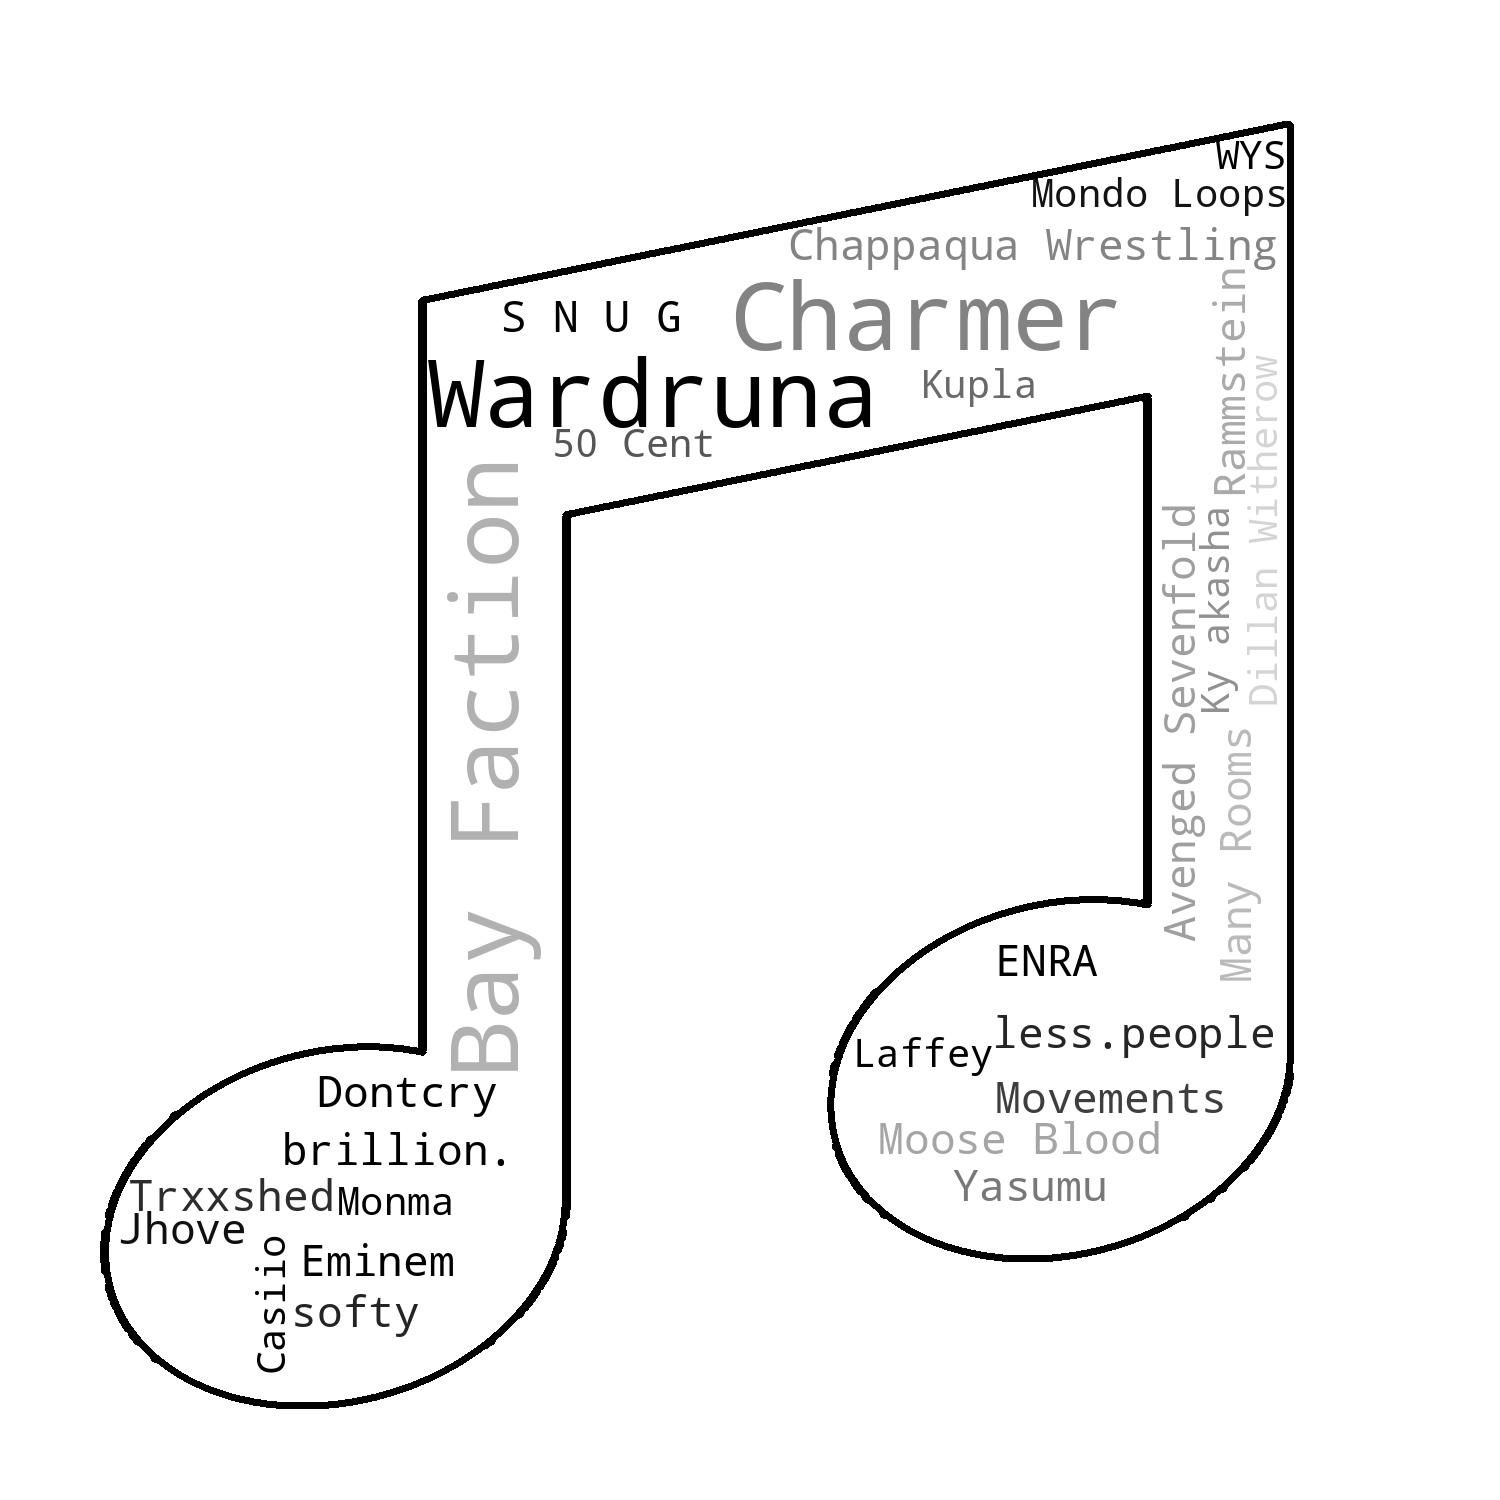
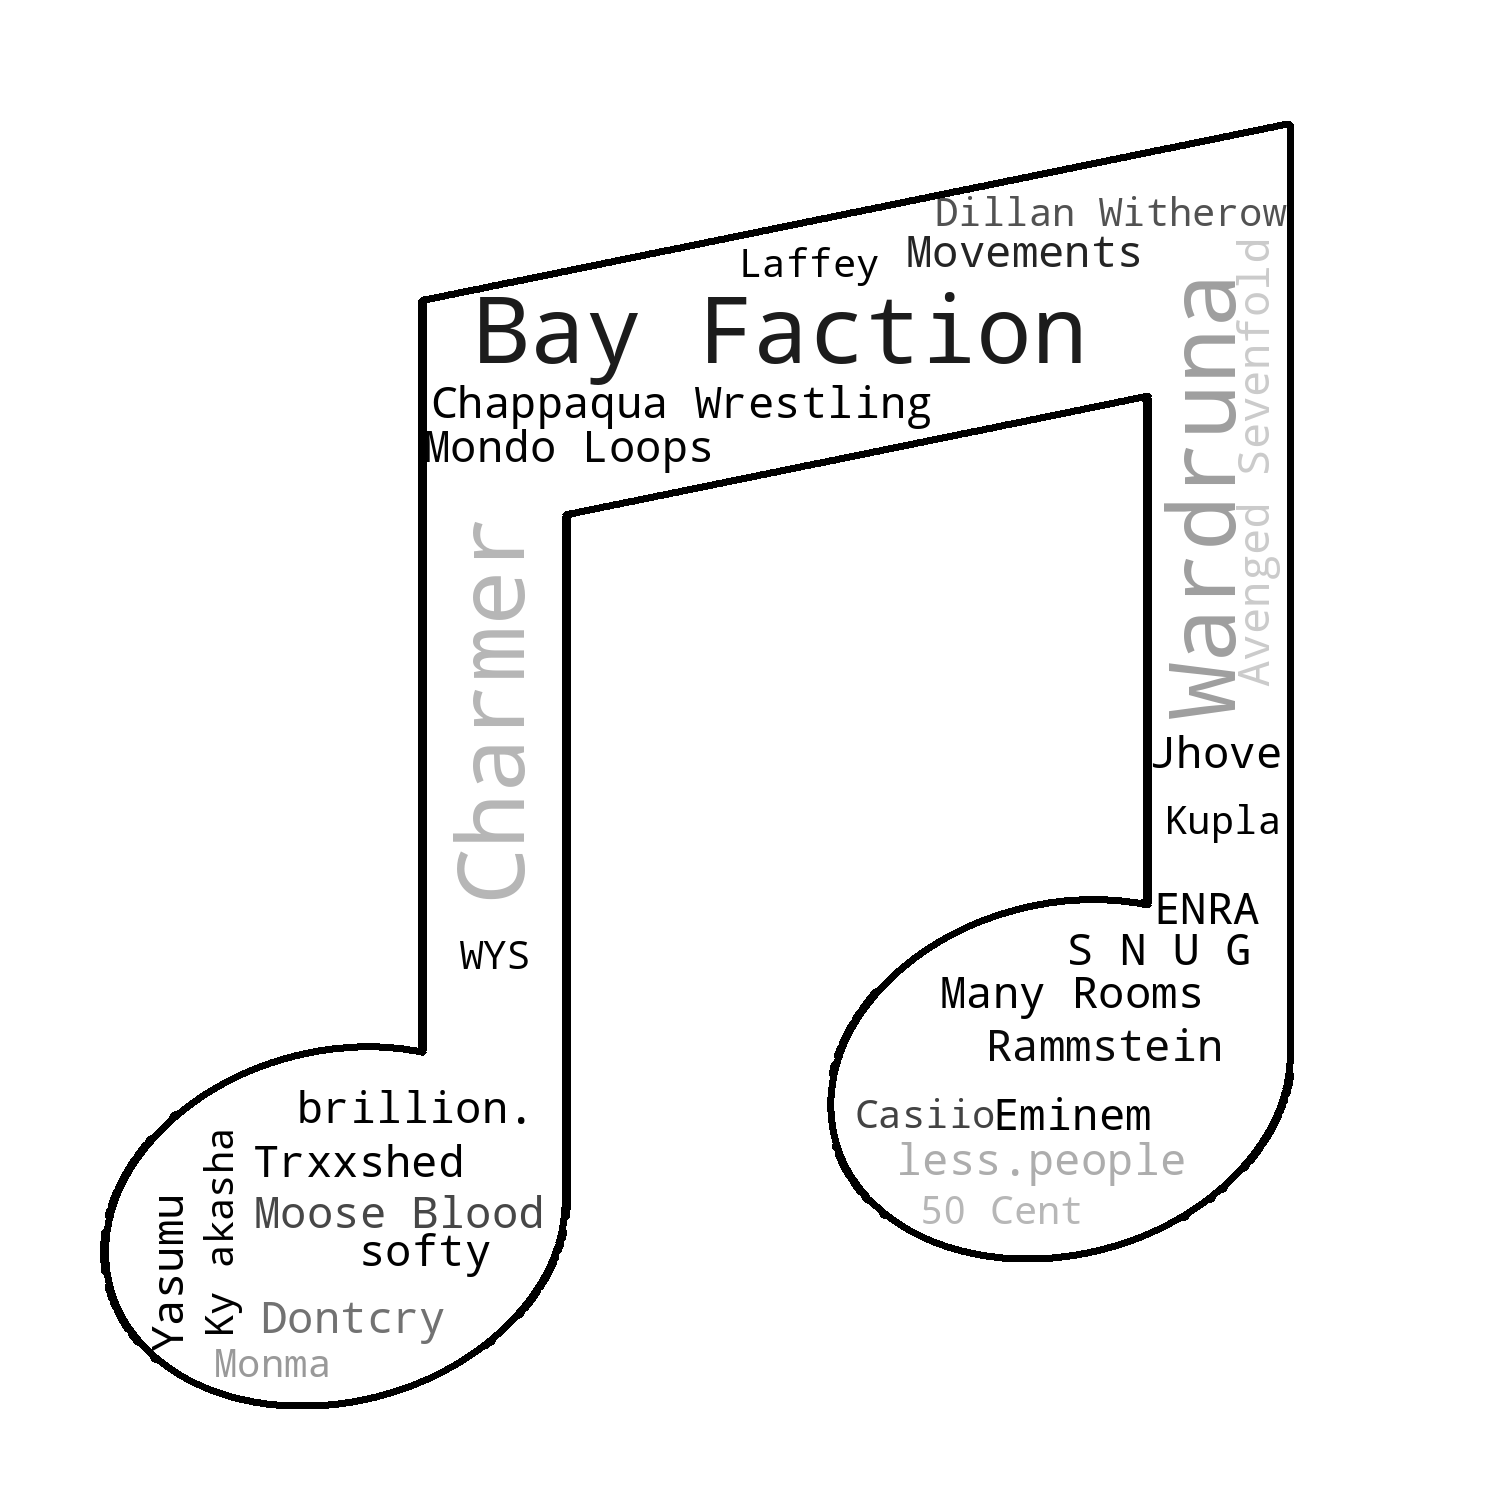
Top genres testing with word cloud impl

Changed region(s): [[0.092, 0.092, 0.8587, 0.92]]

diff --git a/art/views.py b/art/views.py
@@ -12,16 +12,28 @@ def index(request):
     # Spotify data
     sp = spotify_auth.getSpotifyObj()
 
-    # Get top artist of the user 
+    # Get data from user
     top_artists_list = []
+    top_genres_list = []
     if(sp != errors.couldNotAuthenticate()):
-        top_artists = sp.current_user_top_artists(50).get('items')
+        
+        top = sp.current_user_top_artists(200).get('items')
 
-        for i in top_artists:
+        # Top artists
+        for i in top:
             top_artists_list.append(i['name'])
     
-    # Generate word cloud from top artist names
-    cloud.generateWordCloud(top_artists_list)
+
+        # Top genres
+        for i in top:
+            for j in i['genres']:
+                top_genres_list.append(j)
+        
+
+
+    # Generate word cloud from top artist/genres names
+    cloud.generateWordCloud(top_artists_list, "note", 0)
+    #cloud.generateWordCloud(top_genres_list, "note", 0)
 
     return render(request, 'index.html', {'top_artists_list' : top_artists_list})
 

diff --git a/art/cloud.py b/art/cloud.py
@@ -4,24 +4,34 @@ from PIL import Image
 from wordcloud import WordCloud, ImageColorGenerator
 
 
-IMG_PATH = "assets/note.png"
+IMG_PATH = "assets/"
 OUT_PATH = "assets/img.png"
 
-def generateWordCloud(word_list):
+def generateWordCloud(word_list, mask_name, mode):
+    # Edit image path
+    IMG_PATH = "assets/" + mask_name + ".png";
+
     words = Counter(word_list)
     im = Image.open(IMG_PATH).convert("RGB")
     custom_mask = np.array(im)
     img_colors = ImageColorGenerator(custom_mask)
 
-    # Word cloud
     wc = WordCloud(
         background_color='white',
         mask=custom_mask,
         contour_width=10,
         contour_color='black',
         color_func=img_colors
-    ).generate_from_frequencies(words)
+    )
+    
+    # Word cloud generation - MODE 0 (Frequencies)
+    if mode == 0:
+        wc.generate_from_frequencies(words)
 
+
+    # Word cloud - MODE 1 (RAW)
+    elif mode == 1:
+        wc.generate(word_list)
 
     # Output wordcloud to assets
     wc.to_file(OUT_PATH)
